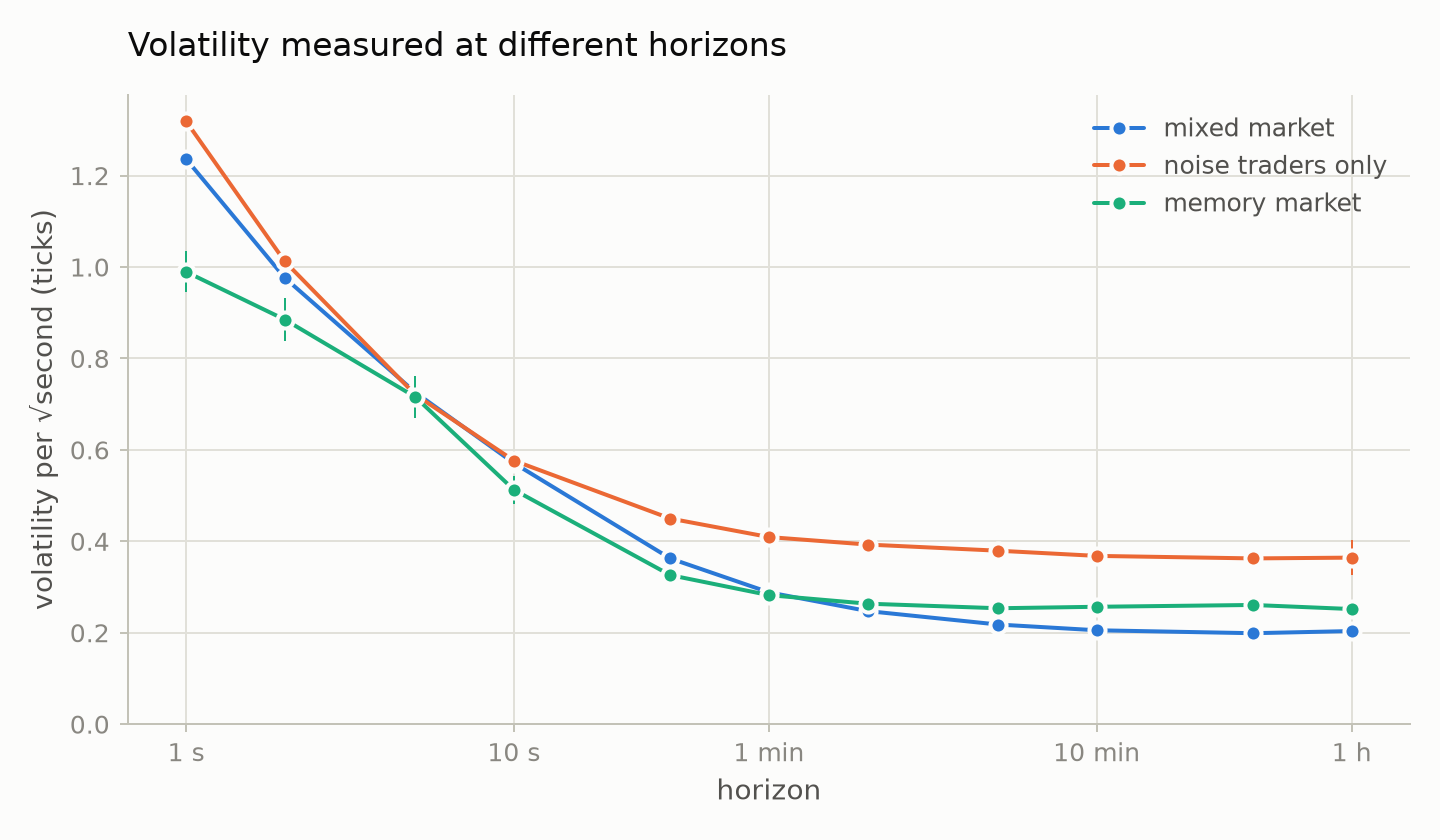
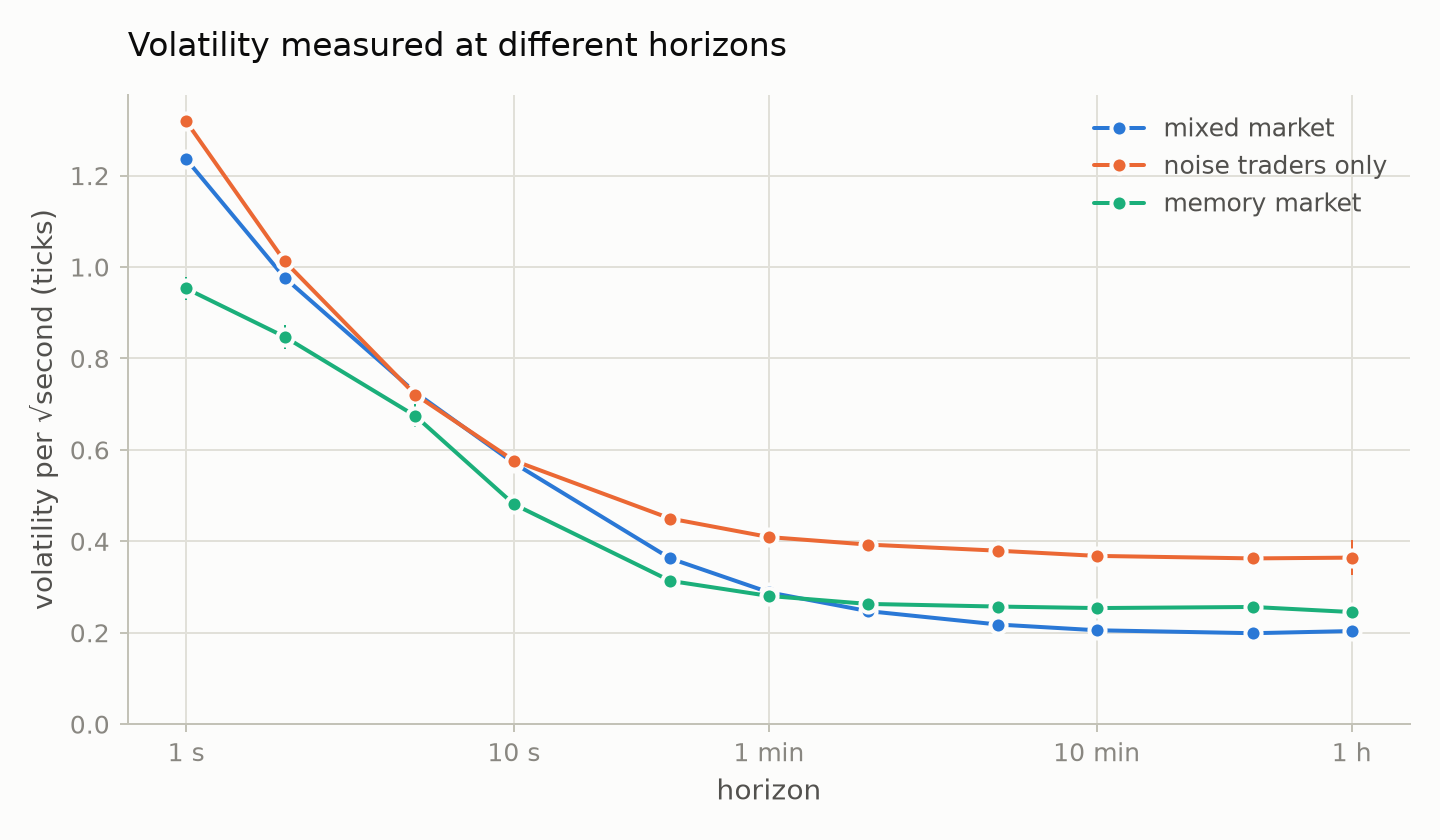
update: version 0.4.0, results rerun, demo session re-recorded, third-party notices
The analyses are rerun with the platform-independent math: only the memory market's numbers
move. The demo session is re-recorded through the trading screen and its golden hash updated.
THIRD_PARTY_NOTICES.md carries toml++'s license, the roadmap marks the browser screen,
multiplayer and tournaments as part of the hosted product, and performance figures are
measured again.

diff --git a/tests/golden_test.cpp b/tests/golden_test.cpp
@@ -122,7 +122,7 @@ constexpr std::uint64_t kMarketLog = 0x0d2b8fee0b0afb38;
 constexpr std::uint64_t kMarketPrices = 0xb5dc7ff55dfed436;
 constexpr std::uint64_t kMarketDepth = 0x3f64617a1293ca45;
 constexpr std::uint64_t kMarketResult = 0xebf5b0556bf4bf09;
-constexpr std::uint64_t kDemoReplayLog = 0x8680a02fed133a4e;
+constexpr std::uint64_t kDemoReplayLog = 0xaad3c9d2f37beeed;
 
 TEST(GoldenTest, AMarketsOutputsAreTheSameOnEveryPlatform) {
     const Scenario scenario = parseScenario(kMarket, "golden");

diff --git a/docs/design.md b/docs/design.md
@@ -24,6 +24,12 @@ market and on a real one (M11).
 Out of scope: connecting to real exchanges or trading real money, and multiple instruments or
 venues until the single-instrument market is calibrated.
 
+This repository is the open engine, under the MIT license: the simulator, its agents, the
+analysis, the terminal trading screen, and, to come, the gateway's protocol and its Python client.
+A trading screen in the browser, multiplayer markets hosted online, and tournaments with
+leaderboards are planned as part of a hosted product built on the engine, and are not built here;
+the roadmap marks them.
+
 ## Architecture
 
 ```
@@ -166,8 +172,17 @@ time order. Items due at the same nanosecond run in the order they were schedule
 - **Randomness:** `Random` is xoshiro256** seeded through SplitMix64, with uniform, Bernoulli,
   exponential and normal distributions written here. Agent *n* draws from stream 2*n* and its
   network jitter from stream 2*n* + 1, so turning on jitter or adding another agent does not change
-  any agent's own draws. Integer draws are identical on every platform; floating-point draws use
-  the same algorithms everywhere but the platform's `log` and `sqrt`.
+  any agent's own draws. Every draw is identical on every platform: floating-point draws use
+  `crowdbook::math` and the correctly rounded square root.
+- **Arithmetic the same everywhere:** a seeded run is byte for byte the same on every platform,
+  not just on one machine. Standard libraries compute `exp`, `log` and `pow` differently in the
+  last bit, and a one-bit difference sends a run down another path, so `crowdbook::math`
+  implements them with addition, subtraction, multiplication and division in a fixed order, from
+  tables worked out to 60 digits by `tools/math_tables.py`; they agree with the standard library
+  to within one unit in the last place. Every target compiles with `-ffp-contract=off`, since
+  Clang fuses multiplies and adds by default and GCC on x86-64 does not. No statement makes more
+  than one random draw, because the order in which operands and arguments are evaluated is
+  unspecified, and the exchange's hash maps are only looked up, never walked, outside its audit.
 - **Market data:** an agent chooses how it gets public data by overriding `marketData()`.
   Streaming agents receive every trade and top-of-book change through `onTrade` and
   `onTopOfBook`. Snapshot agents receive nothing and call `context.market()` when they act, which
@@ -360,6 +375,12 @@ uv run --project analysis crowdbook-large-orders
   half a simulated second: about 4,000 requests, 1,200 trades and 11,000 log rows. Two runs with
   the same seed must produce byte-identical CSV logs and a different seed a different log. Once
   every message has landed, each agent's ledger must match the exchange exactly.
+- **Golden test:** a market with every agent type and every source of randomness runs for four
+  simulated minutes, and the hashes of its event log, price and depth samples and results, and of
+  the replayed demo session's log, must equal committed values. CI runs it on macOS arm64 and on
+  Linux x86-64, so the two platforms have to agree byte for byte. `crowdbook::math` is checked
+  against the standard library over its whole range, and a test fails if the compiler fuses a
+  multiply and an add.
 - **Agent tests** run each built-in agent against `FakeContext`, a stand-in for the simulation
   that records what the agent sends and lets the test play the exchange. They check decisions
   exactly: Avellaneda–Stoikov quotes against hand-computed values, prices relative to the book,
@@ -415,6 +436,7 @@ Choices for later milestones may change once they are implemented; changes are r
 | Events | Ordered, FIX-style execution reports plus anonymous trades and top of book | Agents can rebuild their own state from their events, and logs replay in a well-defined order |
 | Time | `int64` nanoseconds, discrete events | Latency and queue position matter in microstructure; fixed rounds hide both |
 | Ties | Same timestamp → insertion order | Deterministic; no hidden dependence on container iteration order |
+| Event queue | A heap of small (time, sequence, slot) entries, with the actions in a deque beside it, built and processed where they lie | Once an event could hold the depth feed's vectors, moving whole actions around the heap took most of a run's time |
 | Prices and sizes | `int64` ticks and lots; cash in tick-lots | Exact arithmetic; no floating point in matching or accounting |
 | Priority | Price, then time | Standard for continuous limit order books |
 | Modify | Size decrease keeps queue position; price change or size increase loses it | Matches common exchange rules, so queue-position effects are realistic |
@@ -424,6 +446,7 @@ Choices for later milestones may change once they are implemented; changes are r
 | Market data delivery | Streamed or read on demand, chosen by each agent | Streaming to everyone costs N²; most agents only need the market at the moment they act |
 | Randomness | xoshiro256** streams from the run's seed: 2*n* for agent *n*'s draws, 2*n* + 1 for its jitter | Same seed → same run; adding an agent or turning on jitter does not change any agent's draws |
 | Distributions | Implemented in crowdbook, not `std::*_distribution` | Standard distribution output is implementation-defined, so libc++ and libstdc++ disagree for the same seed |
+| Elementary functions | crowdbook's own `exp`, `exp2`, `log` and `pow`, from basic arithmetic, and no fused multiply-adds | The platforms' libraries differ in the last bit, which is enough to make a seeded run differ between macOS and Linux |
 | Agent state | A ledger built from the agent's own requests and events, not a view of the exchange | Agents act on what they could know, including orders in flight and cancels that race fills |
 | Output | Full event log rather than summaries | Microstructure analysis needs every order, cancel and trade, not end-of-run PnL |
 | Log format | One CSV, a row per request or event, unused columns empty | Loads into Python in one call, and runs can be compared byte for byte |
@@ -441,7 +464,7 @@ Choices for later milestones may change once they are implemented; changes are r
 | Parent orders | An optional parent id on a new order, which the exchange ignores and the log keeps | An analysis can rebuild every parent from the log, as FIX's linked order ids allow; agents need nothing new |
 | VWAP | Comes with the trading day, not with TWAP and POV | It follows a forecast of the day's volume curve; until the market has a day, it is TWAP |
 | Live play | A pacer around runUntil plus Simulation::act, on one thread | Wall-clock time only decides when a person's actions happen, so a recording replays exactly |
-| Trading screen | Terminal, with ANSI escape codes and no library | Runs anywhere with a terminal and adds no dependency; a browser screen comes with the gateway |
+| Trading screen | Terminal, with ANSI escape codes and no library | Runs anywhere with a terminal and adds no dependency; a browser screen is part of the hosted product |
 | Session files | TOML holding the scenario's text, the seed and every request with its time | A session replays even when its scenario file changes or is gone |
 | Depth feed | Optional, published as events when the best levels change | Agents, the analysis and a trading screen need depth; computing it costs about half again the run time, so markets that do not need it do not pay |
 | Analysis | Python (polars, matplotlib) in its own uv project, driving the command line | The C++ build keeps no analysis dependencies, and the analysis uses only what any user gets |
@@ -456,7 +479,7 @@ Choices for later milestones may change once they are implemented; changes are r
 | M2 | Exchange: validation, order ids, ownership, accounting, risk limits | Conservation of cash and shares; agents' event ledgers match the exchange | Done |
 | M3 | Kernel, latency, random streams, agent API, ledger, CSV event log | Same seed gives a byte-identical event log; ledgers match the exchange | Done |
 | M4 | Built-in agents (zero-intelligence, Avellaneda–Stoikov market maker, momentum, informed), fundamental value, TOML scenarios, `crowdbook` CLI | Agent tests against a fake context; every example runs in CI | Done |
-| M5a | On-demand market data, so crowds of thousands of agents run faster than real time | Scaling benchmark: 10,000 traders at 52× real time | Done |
+| M5a | On-demand market data, so crowds of thousands of agents run faster than real time | Scaling benchmark: 10,000 traders at 44× real time | Done |
 | M5b | Analysis package; stylized facts, crowd size and price impact by trader type in the thousand-trader markets; market-maker self-impact and PnL against informed flow and latency | [results.md](results.md): four simulated days per market, 32 seeds per experiment point | Done |
 | M6 | Depth and order types: the best levels of the book in market data, post-only orders, maker–taker fees | The published depth matches the book after every random request; fees paid add up to fees collected; planted bugs caught | Done |
 | M7 | Playable slice: real time at adjustable speed, an outside participant, a terminal price ladder, sessions recorded for replay | A recorded session, scripted and played through the real screen, replays to a byte-identical log | Done |
@@ -467,12 +490,12 @@ Choices for later milestones may change once they are implemented; changes are r
 | M12 | Market-design lab: experiments on tick size, fees, speed bumps and circuit breakers | Results in results.md, each with its ablations and uncertainties | Planned |
 | M13 | Multiple instruments and futures: an instrument on every order, event, position and log row; futures settled in cash at expiry; arbitrageurs linking future and stock | Cash, shares and contracts conserved across instruments; the future converges to the stock at expiry | Planned |
 | M14 | Gateway: one network protocol for market data and orders, used by humans and bots alike; a Python client | A Python bot trades through it under the same limits, latency and fees as built-in agents | Planned |
-| M15 | Trading screen: price ladder with click-to-trade, chart, trade tape, position and PnL, and a report after each session | A full session played by hand, with its report | Planned |
+| M15 | Trading screen in the browser, part of the hosted product: price ladder with click-to-trade, chart, trade tape, position and PnL, and a report after each session | A full session played by hand, with its report | Planned (hosted product) |
 | M16 | Truth and counterfactuals: after a session, who you traded with and what they knew; the session replayed without your orders; rewind and re-trade | A replay without the participant's orders matches the same seed run without a participant, byte for byte | Planned |
 | M17 | Options: a chain of calls and puts settled in cash, pricing and Greeks, option market makers hedging in the stock, risk limits by delta and vega | Prices and Greeks match closed forms and finite differences; conservation across the chain | Planned |
 | M18 | Options research and game: whether a volatility smile emerges from supply and demand, dealers' hedging feeding back into the stock, pinning at expiry; an options market-making challenge | Results in results.md; the challenge playable on the trading screen | Planned |
-| M19 | Challenges and tournaments: scored scenarios (work a large order against VWAP, make markets within a risk limit, trade the news), bot tournaments, leaderboards | Scenarios with published scoring; a tournament of the example bots | Planned |
-| Later | Multiplayer markets hosted online, one stock on several exchanges, ETFs and their constituents, an environment for training learning agents, rule-based agents | | |
+| M19 | Challenges and tournaments: scored scenarios (work a large order against VWAP, make markets within a risk limit, trade the news); bot tournaments and leaderboards are part of the hosted product | Scenarios with published scoring, played by the example bots | Planned (tournaments and leaderboards: hosted product) |
+| Later | Multiplayer markets hosted online (hosted product), one stock on several exchanges, ETFs and their constituents, an environment for training learning agents, rule-based agents | | |
 
 ## Code conventions
 

diff --git a/README.md b/README.md
@@ -40,7 +40,7 @@ noise                     20          0          -1575        -1575
 
 A market maker with a fast connection earns the spread from twenty zero-intelligence traders.
 `run.csv` holds every order, cancel, fill, trade and top-of-book change. The same seed always
-reproduces the same run, byte for byte. [examples/scenarios](examples/scenarios) has ten
+reproduces the same run, byte for byte, on any platform. [examples/scenarios](examples/scenarios) has ten
 scenarios, from this one to thousand-trader markets with informed traders, memory, or brokers
 working large orders; [docs/scenarios.md](docs/scenarios.md) describes the file format and every
 agent parameter.
@@ -48,7 +48,7 @@ agent parameter.
 ## Results
 
 A day of a 1,041-agent market — a thousand noise traders, a market maker, twenty trend followers
-and twenty informed traders who know the asset's true value — simulates in 37 seconds. Measured
+and twenty informed traders who know the asset's true value — simulates in 41 seconds. Measured
 over four such days and more than a thousand smaller markets ([docs/results.md](docs/results.md)):
 
 - **Who moves prices.** Noise traders' orders move the mid a tenth of a tick, and the move is gone
@@ -177,28 +177,30 @@ Each workflow preset configures, builds and runs the test suite, with output in 
 | `release` | Release, including the benchmarks                          |
 | `asan`    | Debug with AddressSanitizer and UndefinedBehaviorSanitizer |
 
-The core library has no dependencies. Scenario files use [toml++](https://github.com/marzer/tomlplusplus)
-and the tests use GoogleTest; CMake fetches both at pinned versions. The analysis in `analysis/`
-is a [uv](https://docs.astral.sh/uv/) project using polars, NumPy and matplotlib; nothing in the
-C++ build depends on it.
+The core library has no dependencies. Scenario files use
+[toml++](https://github.com/marzer/tomlplusplus) and the tests use GoogleTest; CMake fetches both
+at pinned versions, and [THIRD_PARTY_NOTICES.md](THIRD_PARTY_NOTICES.md) has toml++'s license,
+since it is compiled into the `crowdbook` command. The analysis in `analysis/` is a
+[uv](https://docs.astral.sh/uv/) project using polars, NumPy and matplotlib; nothing in the C++
+build depends on it.
 
 ## Performance
 
 Measured on an Apple M5 with a Release build:
 
-- The matching engine handles about 15 million operations per second (roughly 65 ns each) on a
+- The matching engine handles about 30 million operations per second (roughly 33 ns each) on a
   mixed stream of passive orders, cancels, crossing orders and market orders.
 - A simulated day of the 1,041-agent mixed market in
-  [large_market.toml](examples/scenarios/large_market.toml), 17 million trades, takes 37 seconds
-  on one core: about 2,400 times faster than real time.
+  [large_market.toml](examples/scenarios/large_market.toml), 17 million trades, takes 41 seconds
+  on one core: about 2,100 times faster than real time.
 - Whole markets of zero-intelligence traders, each acting about four times a second, simulate
   this many seconds per second of wall-clock time:
 
   | Traders | Every update pushed to every trader | Traders read the market on demand |
   |---:|---:|---:|
-  | 100 | 1,295 | 9,815 |
-  | 1,000 | 8.5 | 734 |
-  | 10,000 | — | 52 |
+  | 100 | 1,076 | 9,641 |
+  | 1,000 | 10.1 | 608 |
+  | 10,000 | — | 44 |
 
   Pushing every trade and quote change to every trader costs N² as the crowd grows, so agents
   that only look at the market when they act read it on demand instead. Market makers, which
@@ -213,4 +215,5 @@ cmake --workflow --preset release
 
 ## License
 
-[MIT](LICENSE)
+[MIT](LICENSE). Third-party code compiled into the binary is listed in
+[THIRD_PARTY_NOTICES.md](THIRD_PARTY_NOTICES.md).

diff --git a/docs/results.md b/docs/results.md
@@ -6,7 +6,7 @@ commands reproduce them exactly:
 
 ```bash
 cmake --workflow --preset release
-uv run --project analysis crowdbook-facts         # about 5 minutes on 10 cores
+uv run --project analysis crowdbook-facts         # about 12 minutes on 10 cores
 uv run --project analysis crowdbook-experiments   # a few seconds
 uv run --project analysis crowdbook-large-orders  # about 2 minutes
 ```
@@ -30,7 +30,7 @@ exponential lifetime of 5 seconds on average.
 
 Each market ran for one simulated day under each of four seeds, sampling prices every second. It
 also ran for one simulated hour under each seed with its event log, for spreads and price impact.
-One simulated day of the mixed market is 17 million trades and takes 37 seconds on one core.
+One simulated day of the mixed market is 17 million trades and takes 41 seconds on one core.
 
 ## What emerges
 
@@ -179,16 +179,16 @@ traders have larger limits, 10,000 lots each, so they never run out of room.
 
 | Market | Excess kurtosis, 1 min | Clustering at 1 min | 15 min | 1 h | 2 h |
 |---|---:|---:|---:|---:|---:|
-| Memory market | +7.6 ± 1.2 | +0.24 | +0.18 | +0.12 | −0.00 |
-| … without news | +7.0 ± 1.4 | +0.34 | +0.27 | +0.11 | +0.02 |
+| Memory market | +8.5 ± 0.7 | +0.24 | +0.18 | +0.08 | −0.00 |
+| … without news | +6.3 ± 1.3 | +0.31 | +0.21 | +0.09 | +0.02 |
 | … without the activity response | +5.8 ± 1.2 | +0.22 | +0.10 | +0.06 | +0.00 |
-| … without the volatility response | +2.4 ± 0.6 | +0.06 | +0.02 | +0.03 | +0.01 |
-| … with fifty adaptive traders | +2.3 ± 0.4 | +0.05 | +0.03 | +0.03 | +0.00 |
+| … without the volatility response | +2.6 ± 0.5 | +0.03 | +0.01 | +0.01 | −0.01 |
+| … with fifty adaptive traders | +2.8 ± 0.7 | +0.05 | +0.03 | +0.01 | +0.01 |
 | Mixed market, no memory | −0.1 | +0.07 | +0.01 | −0.01 | −0.02 |
 
 "Clustering" is the autocorrelation of absolute one-minute returns at that lag; the 95% band for no
-correlation is ±0.03. Tails thin with the horizon, as in real markets: excess kurtosis is +18 at
-10 seconds, +7.6 at a minute and +1.8 at five minutes.
+correlation is ±0.03. Tails thin with the horizon, as in real markets: excess kurtosis is +19 at
+10 seconds, +8.5 at a minute and +1.7 at five minutes.
 
 - **Liquidity feedback is the cause.** Without the volatility response the clustering is gone.
   Jumpy prices make the noise traders stand back, a thinner book makes the next jump bigger, and

diff --git a/THIRD_PARTY_NOTICES.md b/THIRD_PARTY_NOTICES.md
@@ -1,0 +1,30 @@
+# Third-party notices
+
+The `crowdbook` command and the `crowdbook::scenario` library compile in toml++, which reads
+scenario and session files. Its license follows.
+
+## toml++ 3.4.0
+
+<https://github.com/marzer/tomlplusplus>
+
+```text
+MIT License
+
+Copyright (c) Mark Gillard <mark.gillard@outlook.com.au>
+
+Permission is hereby granted, free of charge, to any person obtaining a copy of this software and associated
+documentation files (the "Software"), to deal in the Software without restriction, including without limitation the
+rights to use, copy, modify, merge, publish, distribute, sublicense, and/or sell copies of the Software, and to
+permit persons to whom the Software is furnished to do so, subject to the following conditions:
+
+The above copyright notice and this permission notice shall be included in all copies or substantial portions of the
+Software.
+
+THE SOFTWARE IS PROVIDED "AS IS", WITHOUT WARRANTY OF ANY KIND, EXPRESS OR IMPLIED, INCLUDING BUT NOT LIMITED TO THE
+WARRANTIES OF MERCHANTABILITY, FITNESS FOR A PARTICULAR PURPOSE AND NONINFRINGEMENT. IN NO EVENT SHALL THE AUTHORS OR
+COPYRIGHT HOLDERS BE LIABLE FOR ANY CLAIM, DAMAGES OR OTHER LIABILITY, WHETHER IN AN ACTION OF CONTRACT, TORT OR
+OTHERWISE, ARISING FROM, OUT OF OR IN CONNECTION WITH THE SOFTWARE OR THE USE OR OTHER DEALINGS IN THE SOFTWARE.
+```
+
+GoogleTest is used only to build and run the tests; it is not part of any crowdbook library or
+program. The core `crowdbook` library has no third-party code.
